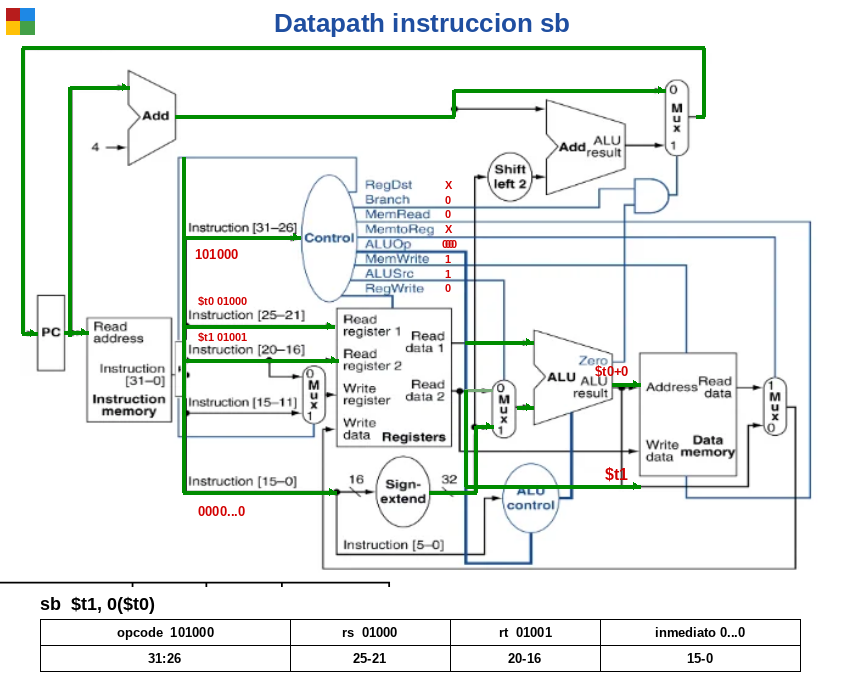
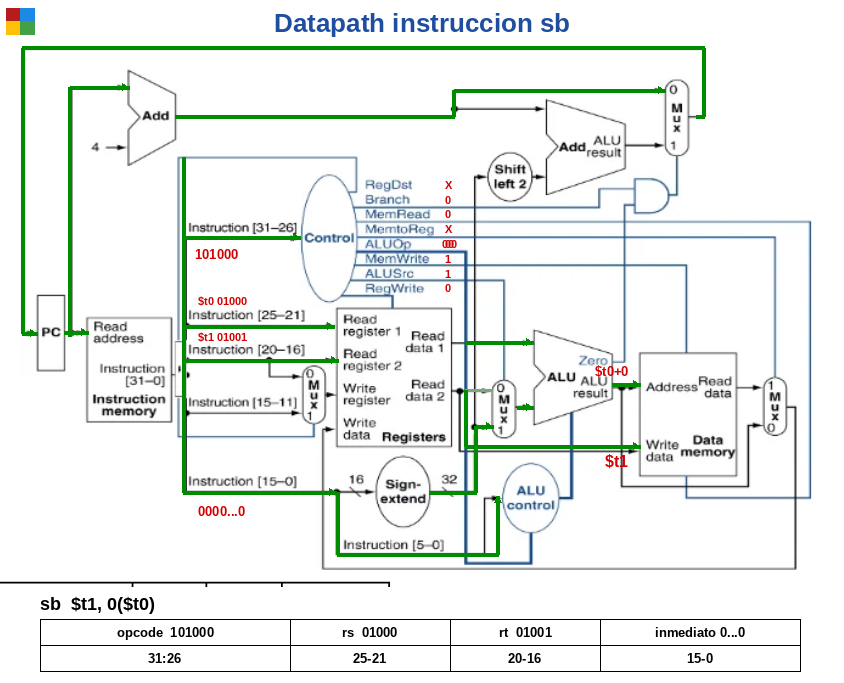
Corregir cruce real por ALU control: recuperar funct[5-0] y arreglar Write data
La linea de Write data (\$t1) estaba dibujada en y=440, cortando el
borde superior del ovalo de ALU control. En el diagrama original ese
cable pasa en y=400, con espacio de sobra por encima del ovalo. Se
corrige esa coordenada y se repone la rama funct[5-0] -> ALU control
que se habia quitado por error (no era la causante del cruce).

Changed region(s): [[0.5545, 0.6457, 0.7701, 0.7994], [0.4005, 0.7994, 0.5853, 0.8302], [0.5237, 0.6764, 0.5545, 0.7072]]

diff --git a/gen_sb_v4.py b/gen_sb_v4.py
@@ -52,6 +52,8 @@ seg([(183, 280), (334, 280)]); tip((326, 280), (334, 280))
 seg([(183, 314), (338, 314)]); tip((330, 314), (338, 314))
 # offset [15-0] -> Sign-extend
 seg([(183, 446), (336, 446)]); tip((328, 446), (336, 446))
+# funct [5-0] -> ALU control (rodea por debajo del Sign-extend y sube al costado izquierdo del circulo)
+seg([(337, 446), (337, 508), (498, 508), (498, 450)]); tip((498, 458), (498, 450))
 
 # 5. Read data 1 ($t0) -> ALU (primer operando)
 seg([(465, 296), (533, 296)]); tip((525, 296), (533, 296))
@@ -59,8 +61,8 @@ seg([(465, 296), (533, 296)]); tip((525, 296), (533, 296))
 # 6. Read data 2 ($t1) -> MUX ALUSrc input 0 (no seleccionada)
 seg([(465, 344), (492, 344)], color=(120, 170, 120, 255), w=3)
 
-# 7. Read data 2 ($t1) -> Data memory Write data  (CAMINO DE STORE, clave)
-seg([(465, 344), (465, 440), (640, 440)]); tip((632, 440), (640, 440))
+# 7. Read data 2 ($t1) -> Data memory Write data  (CAMINO DE STORE, clave; pasa por ARRIBA de ALU control)
+seg([(465, 344), (465, 400), (640, 400)]); tip((632, 400), (640, 400))
 
 # 8. Sign-extend (offset=0) -> MUX ALUSrc input 1 (SELECCIONADA, ALUSrc=1)
 seg([(429, 446), (476, 446), (476, 380), (493, 380)]); tip((485, 380), (493, 380))
@@ -89,7 +91,7 @@ rt_text((198, 255), "$t0 01000", fsig)      # rs = $t0
 rt_text((198, 291), "$t1 01001", fsig)      # rt = $t1 (dato a guardar)
 rt_text((198, 465), "0000...0", frs)        # inmediato (offset)
 rt_text((595, 325), "$t0+0", frs)           # direccion calculada por la ALU
-rt_text((605, 428), "$t1", fr)              # dato escrito en memoria
+rt_text((605, 415), "$t1", fr)              # dato escrito en memoria
 rt_text((442, 198), "00", fsig)             # ALUOp
 
 # señales de control (a la derecha de sus etiquetas, misma fila que el texto azul)
